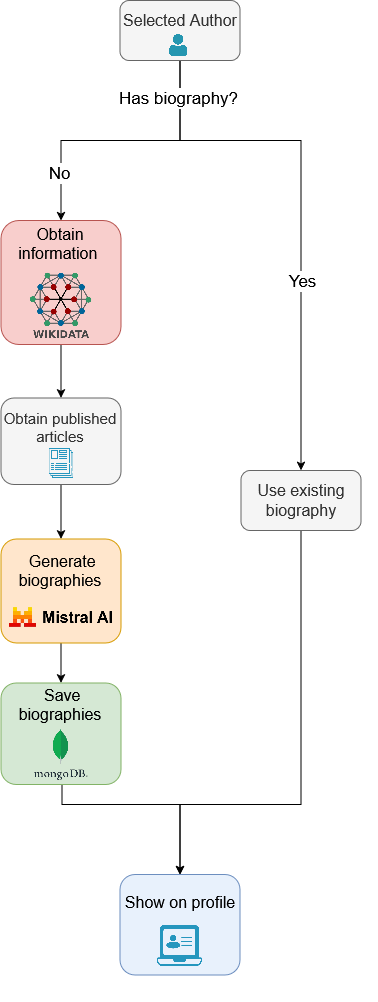
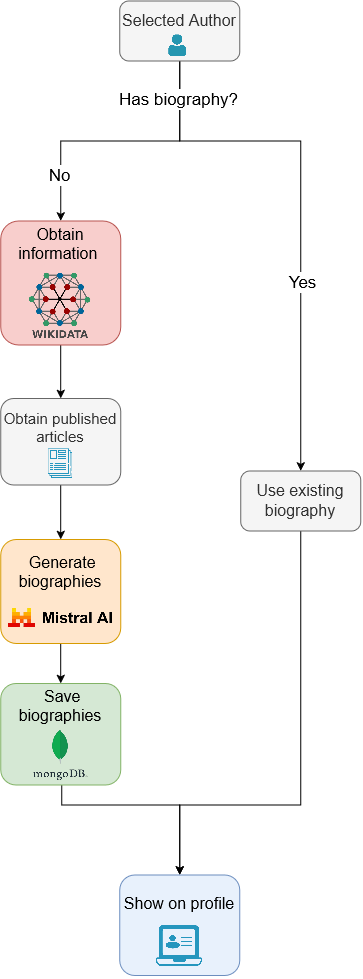
Fix images

Changed region(s): [[0.0, 0.0, 1.0, 1.0], [0.3333, 0.9806, 0.3636, 1.0]]

diff --git a/README.md b/README.md
@@ -42,7 +42,7 @@ Authors without a biography get one generated automatically. The pipeline checks
 Run it with `python -m framework.authorBiography.generate_all_biographies`.
 
 <section align="center">
-<img src="docs/biographies.jpg" alt="AI Biography flow" width="300px" />
+<img src="docs/biographies.jpg" alt="AI Biography flow" width="200px" />
 </section>
 
 ### Vectorial DB
@@ -52,7 +52,7 @@ The recommendations and the semantic search both rely on a Chroma vectorial data
 Run it with `python -m framework.recommendationFeatures.generate_all_embeddings`.
 
 <section align="center">
-<img src="docs/vectorialDB.jpg" alt="Vectorial DB build flow" width="180px" />
+<img src="docs/vectorialDB.jpg" alt="Vectorial DB build flow" width="120px" />
 </section>
 
 ### Recommendations
@@ -60,7 +60,7 @@ Run it with `python -m framework.recommendationFeatures.generate_all_embeddings`
 The selected author's embedding is used to search the vectorial DB for the 10 most similar authors. These are shown on the author page, alongside the existing metric-based recommendations.
 
 <section align="center">
-<img src="docs/recommendations.jpg" alt="Recommendations flow" width="180px" />
+<img src="docs/recommendations.jpg" alt="Recommendations flow" width="120px" />
 </section>
 
 ### Semantic Search
@@ -68,7 +68,7 @@ The selected author's embedding is used to search the vectorial DB for the 10 mo
 When a search finds no author by name, the query is converted into an embedding and compared against the author embeddings in the vectorial DB. This lets readers search by subject (e.g. "alterações climáticas") and get the 10 authors who best match it.
 
 <section align="center">
-<img src="docs/semanticSearch.jpg" alt="Semantic Search flow" width="180px" />
+<img src="docs/semanticSearch.jpg" alt="Semantic Search flow" width="120px" />
 </section>
 
 ### Chatbot
@@ -78,7 +78,7 @@ A conversational assistant available on the home, author and topic pages. Reader
 The chatbot is aware of the page it is on, so a question asked on an author page is understood as being about that author. Answers are grounded in the platform's own data and, for questions about an author's opinions, in article summaries fetched from Arquivo.pt. When the available data does not cover the question, the chatbot says so instead of making up an answer. It replies in European Portuguese and keeps the conversation history, so follow-up questions work.
 
 <section align="center">
-<img src="docs/chatbot.jpg" alt="Chatbot flow" width="220px" />
+<img src="docs/chatbot.jpg" alt="Chatbot flow" width="120px" />
 </section>
 
 ## Getting Started
